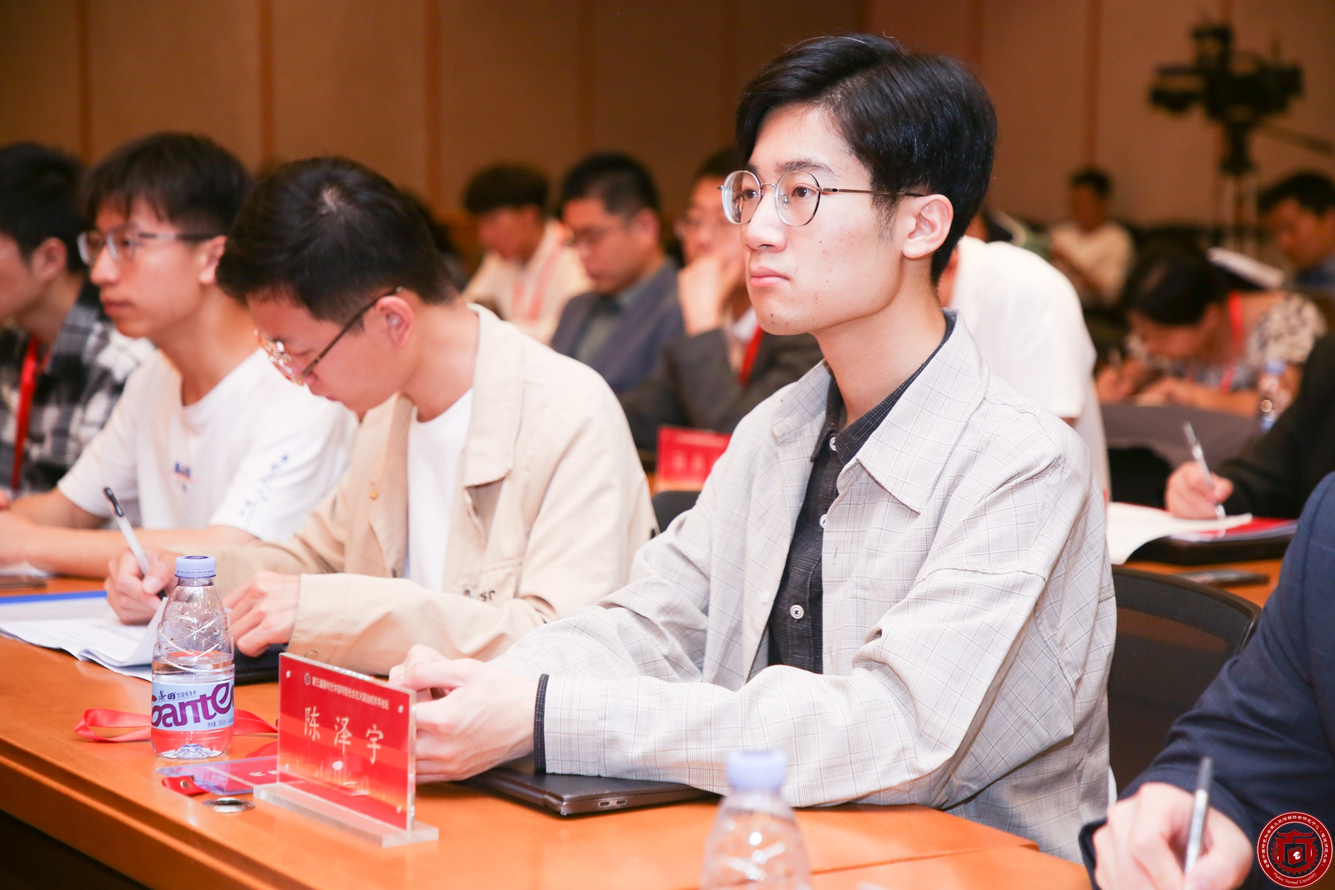
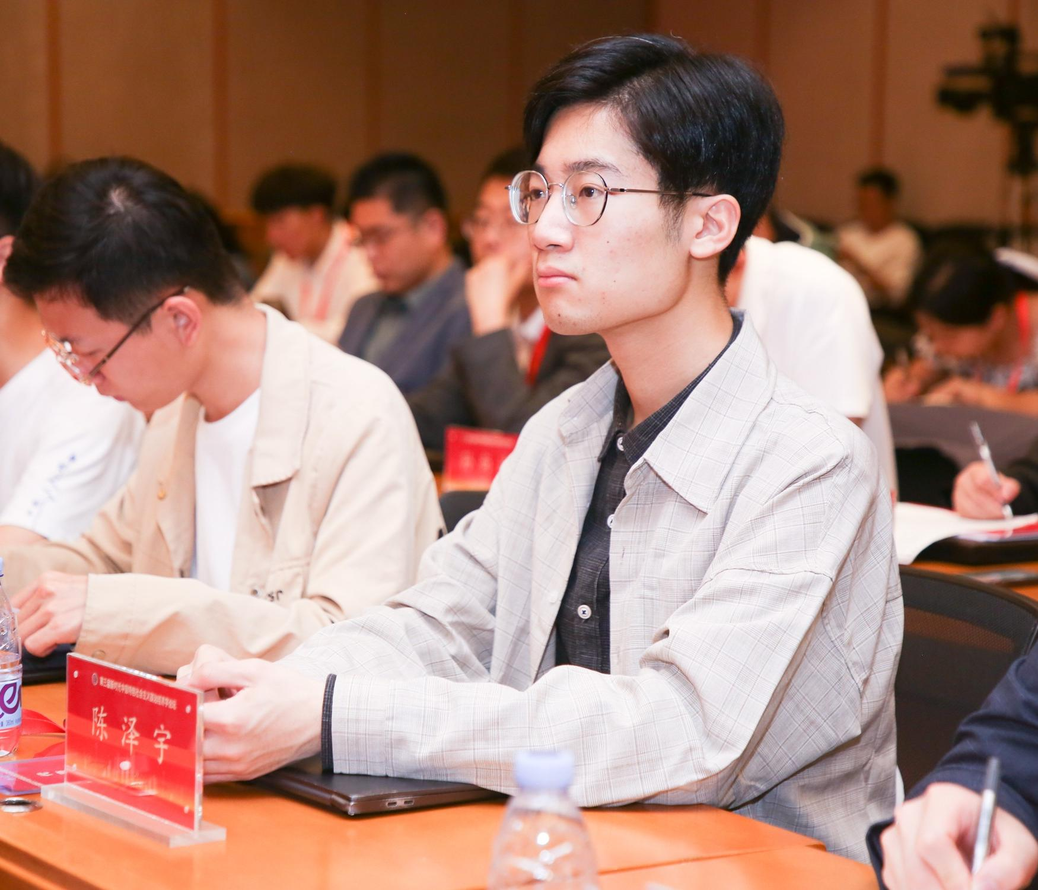
updating

diff --git a/content/research.html b/content/research.html
@@ -47,12 +47,12 @@
         </div>
         -->
 
-        <h2 style="margin-top: 0px;"> Working Papers and Selected Works in Progress </h2>
+        <h2 style="margin-top: 0px;"> Working Papers</h2>
 
 
         <div class="research_item">
             <div>
-                <span class="research_title">The "Demons" in Demonstration: Unintended Consequences of Superstar-oriented R&D Subsidy Policy in China</span>                        
+                <span class="research_title">The "Demons" in Demonstration: Unintended Consequences of Superstar-oriented R&D Subsidy Policy in China</span>
 
                 – Developed from my Master's thesis, recipient of the "Outstanding Master's Thesis" distinction, Renmin University of China (2025)
 
@@ -80,6 +80,7 @@
                     & <a href="http://econ.ruc.edu.cn/jszy/aa10e93d8b604f5c928c3735306bf374.htm" target="_blank">Xin Fan</a>
                 </span><br/>
 
+                Under review at <em>The Economic History Review</em>
             </div>
 
             <div class="abstract">
@@ -95,8 +96,9 @@
             
                 <span id="author">
                     with
-                    <a href="https://deyurao.github.io/" target="_blank">Deyu Rao</a>
-                    & <a href="https://mengwei-lin.com/" target="_blank">Mengwei Lin</a>
+                    <a href="https://deyurao.github.io/" target="_blank">Deyu Rao</a>,
+                    <a href="https://mengwei-lin.com/" target="_blank">Mengwei Lin</a>
+                    & <a href="https://linyang-econ.com/" target="_blank">Lin Yang</a>
                 </span>
             </div>
 
@@ -106,6 +108,7 @@
         </div>
 
 
+        <h2 style="margin-top: 0px;"> Selected Works in Progress </h2>
 
         <div class="research_item">
             <div>
@@ -117,25 +120,23 @@
                     Yuankai Jin
                     & <a href="http://econ.ruc.edu.cn/jszy/aa10e93d8b604f5c928c3735306bf374.htm" target="_blank">Xin Fan</a>
                 </span>
-                <br/>(in progress)
             </div>
         </div>
 
-
-        <!--
+        
         <div class="research_item">
             <div>
-                <span class="research_title">Local Governance and Environmental Regulation: Evidence from China's Urbanization</span>
+                <span class="research_title">Passenger Travel Costs and the Spatial Organization of Economic Activity</span>
             
                 <span id="author">
                     with
-                    <a href="https://deyurao.github.io/" target="_blank">Deyu Rao</a>
-                    & <a href="https://mengwei-lin.com/" target="_blank">Mengwei Lin</a>
+                    <a href="https://deyurao.github.io/" target="_blank">Deyu Rao</a>,
+                    <a href="https://linyang-econ.com/" target="_blank">Lin Yang</a>,
+                    <a href="https://www.wenwangeconomics.com/" target="_blank">Wen Wang</a>
+                    & <a href="https://sites.google.com/view/yatanglin/" target="_blank">Yatang Lin</a>
                 </span>
-                <br/>(<strong><em>Coming soon!</em></strong>)
             </div>
         </div>
-        -->
-
+        
     </div>
 </div>

diff --git a/content/home.html b/content/home.html
@@ -51,7 +51,11 @@
         </p>
 
         <p>
-            My research interest includes Spatial Economics, Environmental Economics, Development Economics, and Applied Microeconomics.
+            I am excited to join the <a href="https://www.lse.ac.uk/study-at-lse/graduate/mphilphd-economic-geography" target="_blank">MPhil/PhD program in Economic Geography</a> at <a href="https://www.lse.ac.uk/" target="_blank">LSE</a> this fall.
+        </p>
+
+        <p>
+            My research interest includes Spatial Economics (esp. QSM), Economic Development, and Environmental Economics.
         </p>
 
         <h2>Education</h2>

diff --git a/css/style.css b/css/style.css
@@ -244,8 +244,8 @@ div.info_content {
 .cropped-image {
     width: 100%;
     height: auto;
-    transform: scale(2);
-    transform-origin: 70% 25%;
+    transform: scale(1.7);
+    transform-origin: 75% 12%;
 }
 
 #main {
